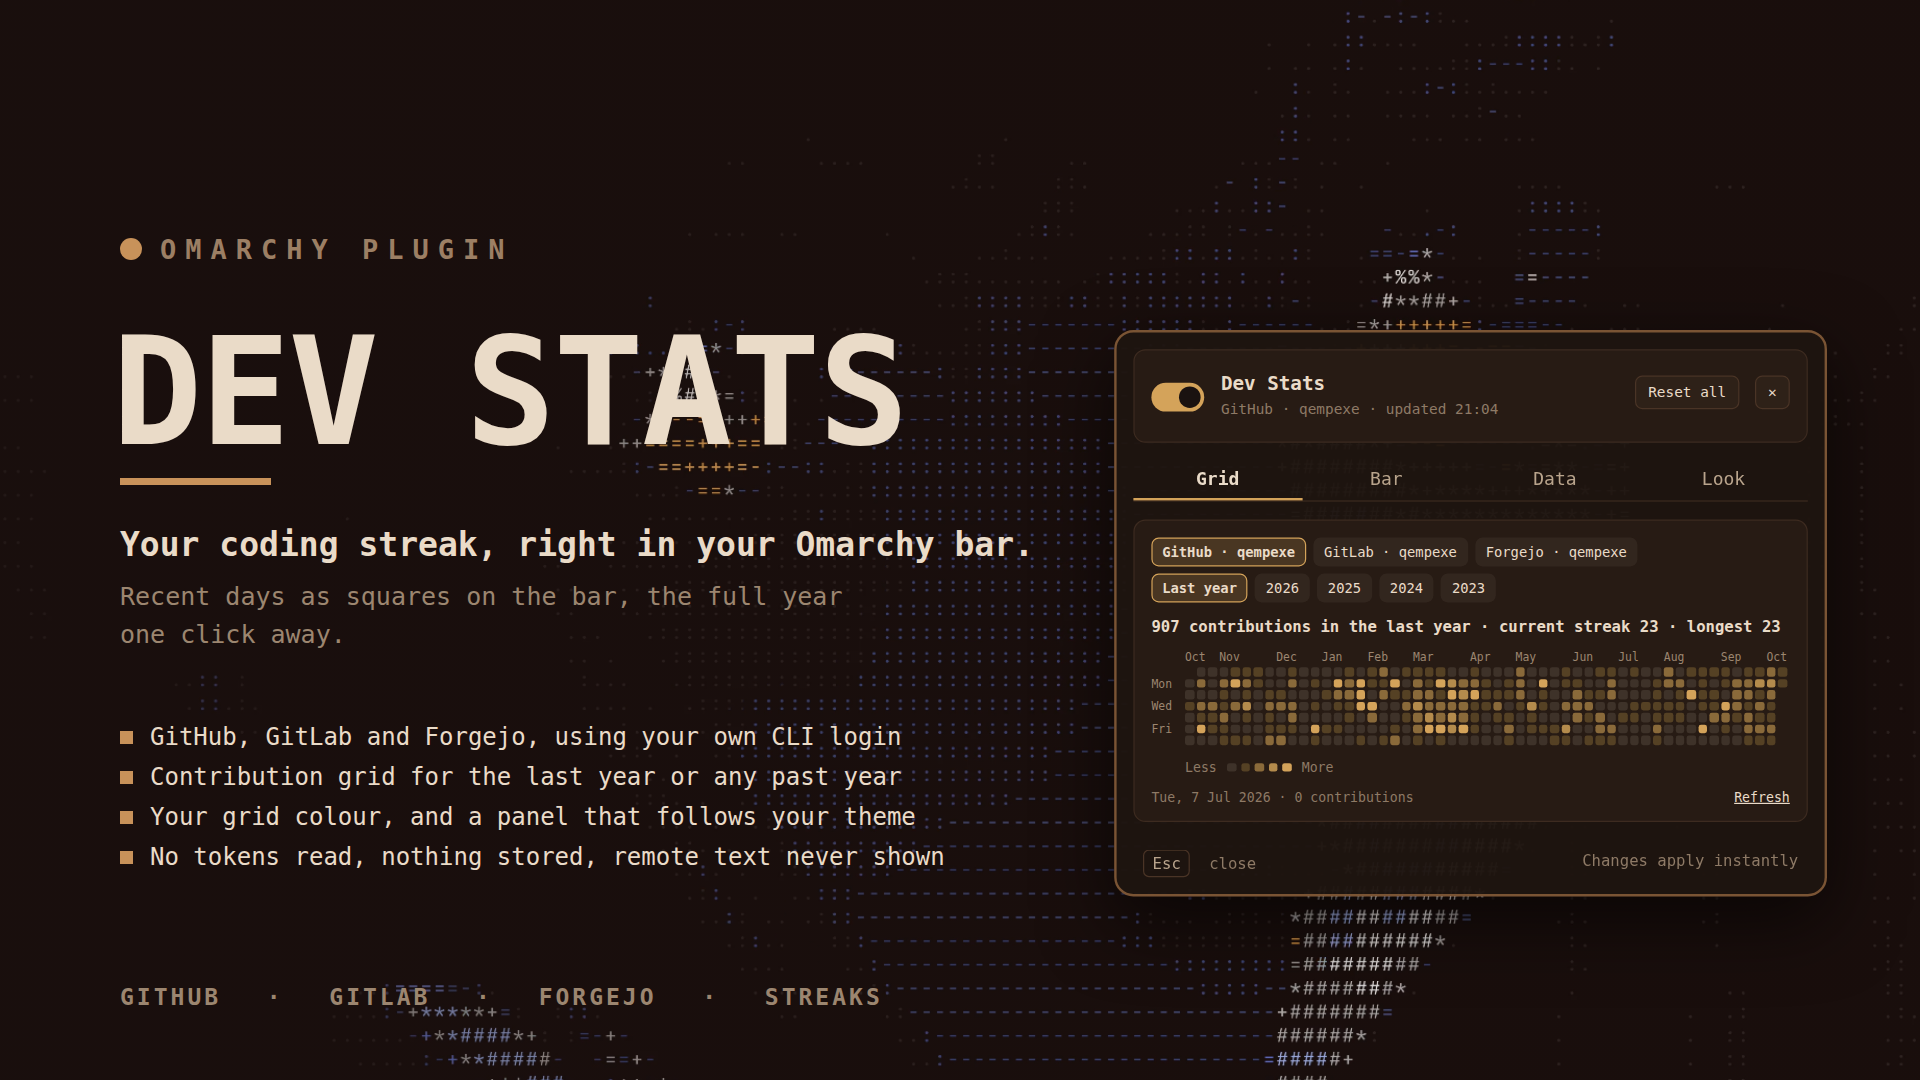
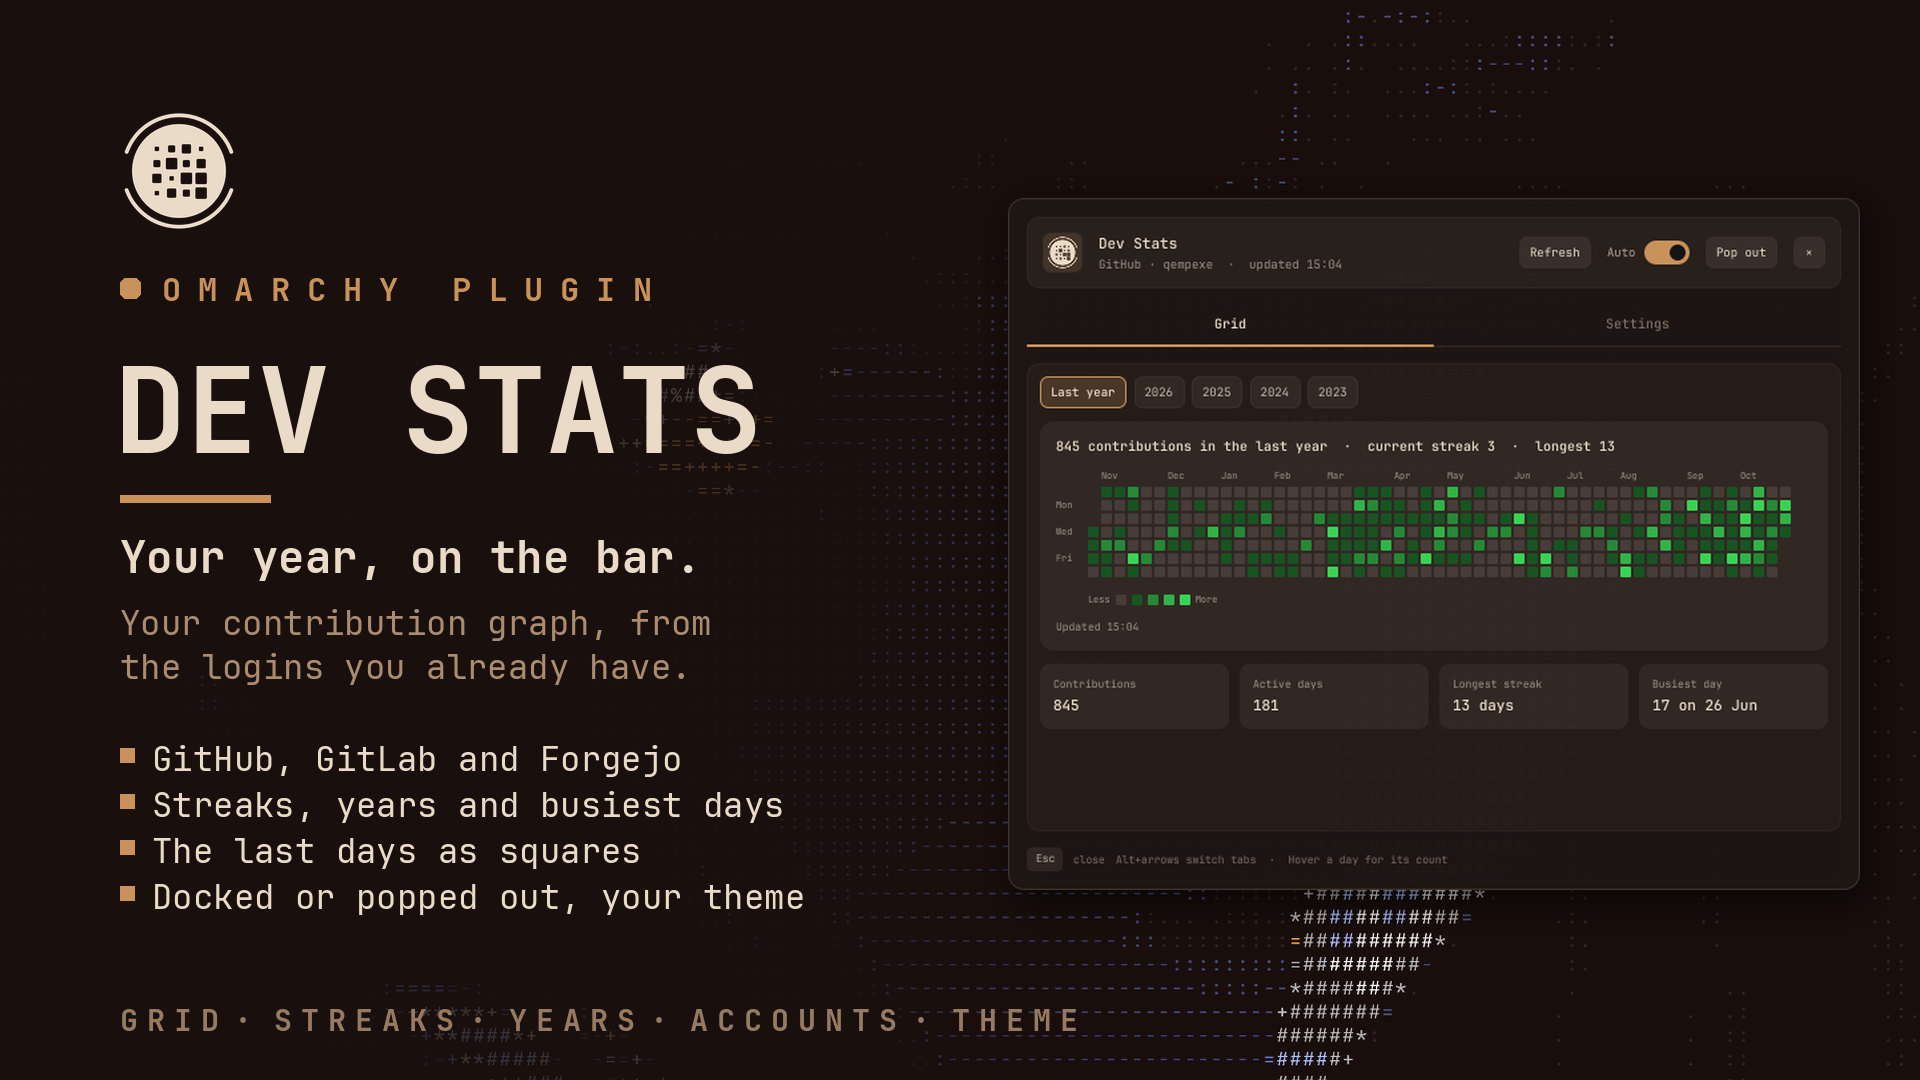
docs: README in the new layout, with screenshots and a new preview

diff --git a/README.md b/README.md
@@ -1,53 +1,104 @@
-# Dev Stats
+<p align="center">
+  <picture>
+    <source media="(prefers-color-scheme: light)" srcset="assets/logo-dark.png">
+    <img src="assets/logo.png" alt="Dev Stats logo" width="112">
+  </picture>
+</p>
 
-A contribution-activity grid for the Omarchy bar, in the style of the GitHub profile graph. One widget, several platforms:
+<h1 align="center">Dev Stats</h1>
 
-![Dev-stats preview](preview.png?v=2=1.1.0)
+<p align="center">Your contribution graph in the <a href="https://omarchy.org">Omarchy</a> bar, for GitHub, GitLab and Forgejo.</p>
 
-| Platform | Login (once, in a terminal) | Source of the numbers |
-| --- | --- | --- |
-| GitHub / GitHub Enterprise | `gh auth login` | GraphQL contribution calendar |
-| GitLab / self-hosted GitLab | `glab auth login` | your activity events, counted per day |
-| Forgejo / Gitea / Codeberg | `tea login add` or `fj auth login` | the instance's public heatmap endpoint |
+![Dev Stats](preview.png)
 
-## On the bar
+The last days of your contribution graph sit on the bar as small squares, darker on quiet
+days and brighter on busy ones. Click them and the whole year opens, with your streaks,
+every calendar year and the busiest day. It uses the logins you already have in `gh`,
+`glab`, `tea` or `fj`, and opens docked to the bar or as a window of its own.
 
-```text
-[ logo ] ▪▪▪▪▪▪▪
-```
+## Features
 
-The bar shows the last 7 days of the selected account as coloured squares (3 to 14 days, and the logo can be hidden).
+- **Three platforms**: GitHub (and GitHub Enterprise), GitLab (and self-hosted GitLab),
+  and Forgejo, Gitea or Codeberg.
+- **Your existing logins**: accounts are found from the platform's own CLI. No tokens to
+  paste, and none are read.
+- **On the bar**: the last 3 to 14 days as squares, with the platform's logo.
+- **The whole year**: the grid, the last year or any calendar year, streaks, and the
+  numbers under it.
+- **Your theme**: follows your Omarchy theme live, takes your window border's colors,
+  or uses your own colors exactly, or none at all. The grid has its own color.
+- **Docked or popped out**: a panel on the bar, or a window you can move, resize and tile.
+- **Made to fit**: card style, spacing, roundness, text size, window size, outline,
+  tint and opacity, and the squares on the bar, all in a searchable Settings tab.
 
-- **Left click**: opens the panel (configurable).
-- **Middle click**: refreshes (configurable).
-- **Right click**: opens the panel on the Bar tab.
+### The grid
 
-## The panel
+<img align="right" src="screenshots/grid.png" alt="Grid" width="420">
 
-A floating panel anchored to the bar, closed with `Esc` or a click outside. Changes apply instantly.
+One column per week, Sunday on top, five shades of your grid color. Hover a day for its
+count. The chips above switch between the last year and each calendar year the platform
+knows about, and between your accounts when you have more than one.
 
-| Tab | What is in it |
-| --- | --- |
-| **Grid** | Account tabs, the chips for the rolling last year and each calendar year, the contribution grid with streaks, per-day hover details, Refresh |
-| **Bar** | Show the platform icon, days on the bar (3 to 14), left and middle click actions |
-| **Data** | Refresh automatically, refresh interval (5 to 240 minutes) |
-| **Look** | Grid color (6 presets or any hex), panel colors: Follow theme, Custom (8 presets or a hex), Monochrome |
+Under the grid: your contributions, the days you were active, the longest streak and the
+busiest day. **Refresh** in the header fetches new numbers, and the **Auto** switch next
+to it turns refreshing in the background on and off.
 
-Every setting has a plain-language hint and a reset arrow once it differs from the default. The switch in the header turns automatic refreshing on and off, and **Reset all** (asks twice) puts every setting back to its default.
+<br clear="right">
 
-## Install
+## Installation
 
-```sh
+```bash
 omarchy plugin add https://github.com/qempexe/omarchy-dev-stats.git --enable --yes
+omarchy restart shell
 ```
 
-## Requirements
+Then add **Dev Stats** to your bar, from the bar settings or with
+`{ "id": "io.github.qempexe.dev-stats" }` under `bar` → `layout` in
+`~/.config/omarchy/shell.json`.
 
-`bash`, `jq` and `curl`, plus the CLI for each platform you use (`gh`, `glab`, and `tea` or `fj`). Only the CLIs for platforms you actually use are needed.
+It needs `bash`, `jq` and `curl`, which Omarchy has, plus the CLI of each platform you
+use, logged in once from a terminal:
 
-## Accounts
+| Platform | Log in | Where the numbers come from |
+| --- | --- | --- |
+| GitHub / GitHub Enterprise | `gh auth login` | the GraphQL contribution calendar |
+| GitLab / self-hosted GitLab | `glab auth login` | your activity events, counted per day |
+| Forgejo / Gitea / Codeberg | `tea login add` or `fj auth login` | the instance's public heatmap |
 
-Accounts are found automatically from your existing CLI logins. To add one by hand (or to follow a public profile), create `~/.config/dev-stats/accounts.json`:
+Only the CLIs of the platforms you use are needed.
+
+## Usage
+
+### Bar button
+
+| Click | Does |
+| --- | --- |
+| Left | opens Dev Stats on the Grid tab, or closes it (or *Refresh*, or nothing: see **Left click**) |
+| Middle | refreshes (or opens Dev Stats, or nothing: see **Middle click**) |
+| Right | the Settings tab |
+
+**Esc** or **×** closes it, and **Alt+←/→** switches tabs.
+
+### Pop out and dock
+
+The header's **Pop out** turns Dev Stats into a real window you can move, resize and
+tile, and **Dock** puts it back on the bar. **Settings › Window › Open as** picks which one
+the bar button opens.
+
+Hyprland tiles new windows. To float and center the popped-out window, add to
+`~/.config/hypr/hyprland.lua`:
+
+```lua
+o.window({ class = "^org\\.quickshell$", title = "^Dev Stats$" }, { tag = "+dev-stats-window" })
+o.window({ tag = "dev-stats-window" }, { float = true })
+o.window({ tag = "dev-stats-window" }, { center = true })
+o.window({ tag = "dev-stats-window" }, { size = { 640, 520 } })
+```
+
+### Accounts
+
+Accounts are found from your CLI logins. To add one by hand, or to follow a public
+profile, create `~/.config/dev-stats/accounts.json`:
 
 ```json
 [
@@ -56,93 +107,128 @@ Accounts are found automatically from your existing CLI logins. To add one by ha
 ]
 ```
 
-`provider` is `github`, `gitlab` or `forgejo` (`gitea` is accepted as an alias).
+`provider` is `github`, `gitlab` or `forgejo` (`gitea` works too).
 
-## Settings
+## Configuration
 
-| Setting | Values | Default |
-| --- | --- | --- |
-| `showIcon` | `true`, `false` | `true` |
-| `days` | 3 to 14 | `7` |
-| `clickAction` | `panel`, `refresh`, `none` | `panel` |
-| `middleAction` | `refresh`, `panel`, `none` | `refresh` |
-| `autoRefresh` | `true`, `false` | `true` |
-| `refreshMinutes` | 5 to 240 | `30` |
-| `gridColor` | `#rrggbb` hex color | `#39d353` |
-| `panelColor` | `theme`, `custom`, `monochrome` | `theme` |
-| `panelCustomColor` | `#rrggbb` hex color | `#7aa2f7` |
+The **Settings** tab, or a right click on the bar button. Everything applies at once and
+is saved in `~/.local/state/omarchy-dev-stats/settings.json`.
 
-`gridColor` is the color of the busiest days. The quieter levels are darker shades of the same color. An invalid value falls back to the default green. Settings are saved in `~/.local/state/omarchy-dev-stats/settings.json`; edits made there by hand are picked up while the shell runs.
+<table>
+<tr>
+<td><img src="screenshots/settings.png" alt="Settings: Colors"></td>
+<td><img src="screenshots/settings-bar.png" alt="Settings: Bar"></td>
+</tr>
+<tr>
+<td><img src="screenshots/settings-window.png" alt="Settings: Window"></td>
+<td><img src="screenshots/about.png" alt="About"></td>
+</tr>
+</table>
 
-If you used 1.1.x, the grid color you picked is moved over from `~/.config/dev-stats/color` the first time 1.2.0 runs.
+The settings sit in tabs, with a search box above them that looks through every tab.
+Each row has a **↺** to put it back, and **Reset all** in the header puts back everything.
 
-## Security and privacy
+| Tab | Setting | Default | |
+| --- | --- | --- | --- |
+| Colors | Colors | Follow theme | Follow theme, Window borders, Custom or Monochrome |
+| | Custom colors | | background, text and accent, a swatch or a hex code, used exactly as you pick them |
+| | Text | Always readable | or Theme, or My text color |
+| | Grid color | `#39d353` | the busiest days; quieter days are darker shades of it |
+| Appearance | Card style | Soft | Soft, Outline or Flat |
+| | Spacing | Comfortable | Compact, Comfortable or Spacious |
+| | Roundness | 4 | 0 (square) to 20, for the window and the grid's squares |
+| | Text size | 1 | 0.8 to 1.5 |
+| | Show streaks, the legend, the numbers | on | what the Grid tab shows |
+| Window | Window width, height | 640 × 520 | 480 to 1200, 420 to 1100 |
+| | Open as | Bar panel | or Own window |
+| | Window outline | off | the edge in your window border's colors, as a gradient or one color |
+| | Window tint | 0 | 0 to 30, the accent washed over the background |
+| | Window opacity | 97 | 50 to 100 |
+| Bar | Show platform icon | on | |
+| | Days on the bar | 7 | 3 to 14 |
+| | Square size, roundness | 9, 2 | 6 to 14, 0 (square) to 7 (dots) |
+| | Left click, middle click | Open Dev Stats, Refresh | or Refresh, Open Dev Stats, Nothing |
+| Data | Refresh automatically | on | every 30 minutes (5 to 240) |
 
-* The QML code makes no network requests. Fetching happens in `bin/dev-stats.sh`, which runs your own `gh`, `glab` and `curl` as your user.
-* The plugin never reads, prints or stores access tokens. It reads only the host and account names from the CLI config.
-* Host and account names are validated before they reach any command line, and may not start with `-`.
-* The only file written is `~/.local/state/omarchy-dev-stats/settings.json`, which holds the settings shown in the panel. Results are held in memory only.
-* Text fields in the panel are drawn by `SettingRow` (never a native `TextInput`), so nothing watches the clipboard on its own. Pasting uses `wl-paste` (`wl-clipboard`), read at most 1 KB for at most 2 seconds, only when you press Ctrl+V.
+**Window borders** and the outline read the active border from your theme's
+`hyprland.lua` (or `hyprland.conf`), and only take `#rrggbb` colors and an angle from it.
+Settings saved by 1.2 keep working, and the grid color saved by 1.1 is moved over once.
 
-## Limitations
+**About**, the last tab, has the logo, the version and a link to more plugins.
 
-* Year selection: GitHub offers every year your account has activity. GitLab offers the last three calendar years (its events API keeps about three years). Forgejo/Gitea only expose the last year, so no year chips appear for them.
-* GitLab has no public calendar API, so Dev-stats counts your activity events per day. Numbers can differ slightly from GitLab's own graph.
-* Forgejo/Gitea use the public heatmap endpoint over HTTPS. Private profiles and plain-HTTP instances are not supported.
-* Account discovery for `tea` and `fj` depends on their config formats. If an account is not found automatically, use `accounts.json`.
-* Month and weekday labels are English.
+## Troubleshooting
 
-## How it works
+- **No accounts.** Log in with the platform's CLI in a terminal (see Installation), then
+  press **Refresh**. If an account still isn't found, add it to `accounts.json`.
+- **Request failed.** Check the CLI's login (`gh auth status`, `glab auth status`), that
+  the profile is public on Forgejo/Gitea, and the network.
+- **Years.** GitHub offers every year your account was active. GitLab offers the last
+  three calendar years, as long as its events API keeps them. Forgejo and Gitea only give
+  the last year, so no year chips appear for them.
+- **GitLab numbers** are your activity events counted per day, since GitLab has no
+  calendar API. They can differ a little from GitLab's own graph.
+- **Forgejo and Gitea** are read over HTTPS only. Private profiles and plain HTTP
+  instances aren't supported.
+- **Privacy.** The QML makes no network requests. Fetching happens in `bin/dev-stats.sh`,
+  which runs your own `gh`, `glab` and `curl` as you. Tokens are never read, printed or
+  stored: only host and account names are taken from the CLI configs, and they are checked
+  before they reach a command line. Results are kept in memory only.
+- **Files.** The only file written is `settings.json`, in a folder only you can open
+  (0700).
+- **Text fields.** The search and hex fields never read the clipboard by themselves.
+  **Ctrl+V** (or **Shift+Insert**) pastes once through `wl-paste`, at most 1 KB.
+- **Something else.** Check `qs log` for `dev-stats` lines, and open an issue.
 
-```text
-BarWidget.qml      the bar squares and clicks; fetches and holds the data; reads settings
-SettingsPopup.qml  the panel (tabs, account and year chips, the grid, theme colors)
-SettingRow.qml     one setting: segments, chips, tiles, slider, switch, text field, colors
-SettingsStore.qml  settings.json: instant, merged on load, watched, echo-safe
-Stats.js           grid, streak and color maths; cleans everything that comes from outside
-Foreground.qml     only supplies the bar's foreground color
-bin/dev-stats.sh   account discovery and fetching (gh, glab, tea, fj, curl)
+## Contributing
+
+Bug reports and ideas are welcome as [issues](https://github.com/qempexe/omarchy-dev-stats/issues).
+[CONTRIBUTING.md](CONTRIBUTING.md) explains how to add a setting or a platform, the rules
+and the tests. Everyone taking part is expected to follow the
+[code of conduct](CODE_OF_CONDUCT.md). What changed in each version is in the
+[changelog](CHANGELOG.md).
+
+### Source layout
+
+```
+qml/
+├── BarWidget.qml     the bar squares and clicks, fetching and holding the results,
+│                     docking and popping out, the theme's border, the capped paste
+├── core/             UiState (colors, spacing, the open tab), SettingsStore (saved
+│                     locally, applied at once)
+├── panel/            Panel (docked), PopoutWindow, StatsView (the window), GridPage,
+│                     SettingsView + SettingRow + TileArt, AboutPage
+├── controls/         Btn, Chip, Sw, Txt, PasteInput (a text field with a bounded paste)
+└── js/               Schema.js (every setting), Stats.js (the grid and streaks, and
+                      cleaning what comes in), Theme.js (border colors)
+bin/dev-stats.sh      account discovery and fetching
+assets/               the logo, light and dark
+tools/gen-manifest.js node tools/gen-manifest.js
+tests/test_model.js   node tests/test_model.js
 ```
 
-## Tests
+### Upgrading and uninstalling
 
 ```bash
-python3 tests/test_manifest.py   # SettingsPopup.qml schema == manifest.json == BarWidget.qml; no native text inputs
-python3 tests/test_stats.py      # Stats.js under node: grid, streaks, colors, input cleaning
+omarchy plugin update io.github.qempexe.dev-stats
+omarchy restart shell
 ```
 
-## Status
-
-The model (`Stats.js`) and the manifest are tested. If something looks off, check `qs log` for `dev-stats` lines.
-
-## Adding another platform
-
-Add a `detect_<name>` and `fetch_<name>` function to `bin/dev-stats.sh` (each prints JSON), add the name to the `provider` checks, and add a label and glyph in `Stats.js`.
-
-## Remove
-
-```sh
+```bash
 omarchy plugin remove io.github.qempexe.dev-stats
+omarchy restart shell
+rm -rf ~/.local/state/omarchy-dev-stats ~/.config/dev-stats   # settings, your accounts.json
 ```
 
-## Changelog
+## License and credits
 
-### 1.2.0
+[MIT](LICENSE).
 
-- The panel is now a tabbed settings popup (Grid, Bar, Data, Look) anchored to the bar.
-- New settings: platform icon, days on the bar, left and middle click actions, automatic refresh and its interval, panel colors (Follow theme / Custom / Monochrome).
-- Right click opens the panel on the Bar tab.
-- Settings are stored in `~/.local/state/omarchy-dev-stats/settings.json`; the old `~/.config/dev-stats/color` is migrated once.
+- The numbers come from **GitHub**, **GitLab**, **Forgejo** and **Gitea**, through their own
+  command-line tools: [gh](https://cli.github.com), [glab](https://gitlab.com/gitlab-org/cli),
+  [tea](https://gitea.com/gitea/tea) and [forgejo-cli](https://codeberg.org/Cyborus/forgejo-cli).
+- Thanks to the **Omarchy** project for the shell and its plugin system, and to **Quickshell** and **Qt** for the toolkit.
+- Thanks to everyone who tests it and reports issues.
 
-### 1.1.0
-
-- Calendar-year chips, grid color, GitLab and Forgejo support.
-
-
-### 1.0.0
-
-- First release.
-
-### License
-
-MIT
+Dev Stats is an independent community plugin. It is not affiliated with or endorsed by
+GitHub, GitLab, Forgejo, Gitea, Codeberg or Omarchy. Their names are trademarks of their
+owners and are used only to describe what the plugin connects to.
